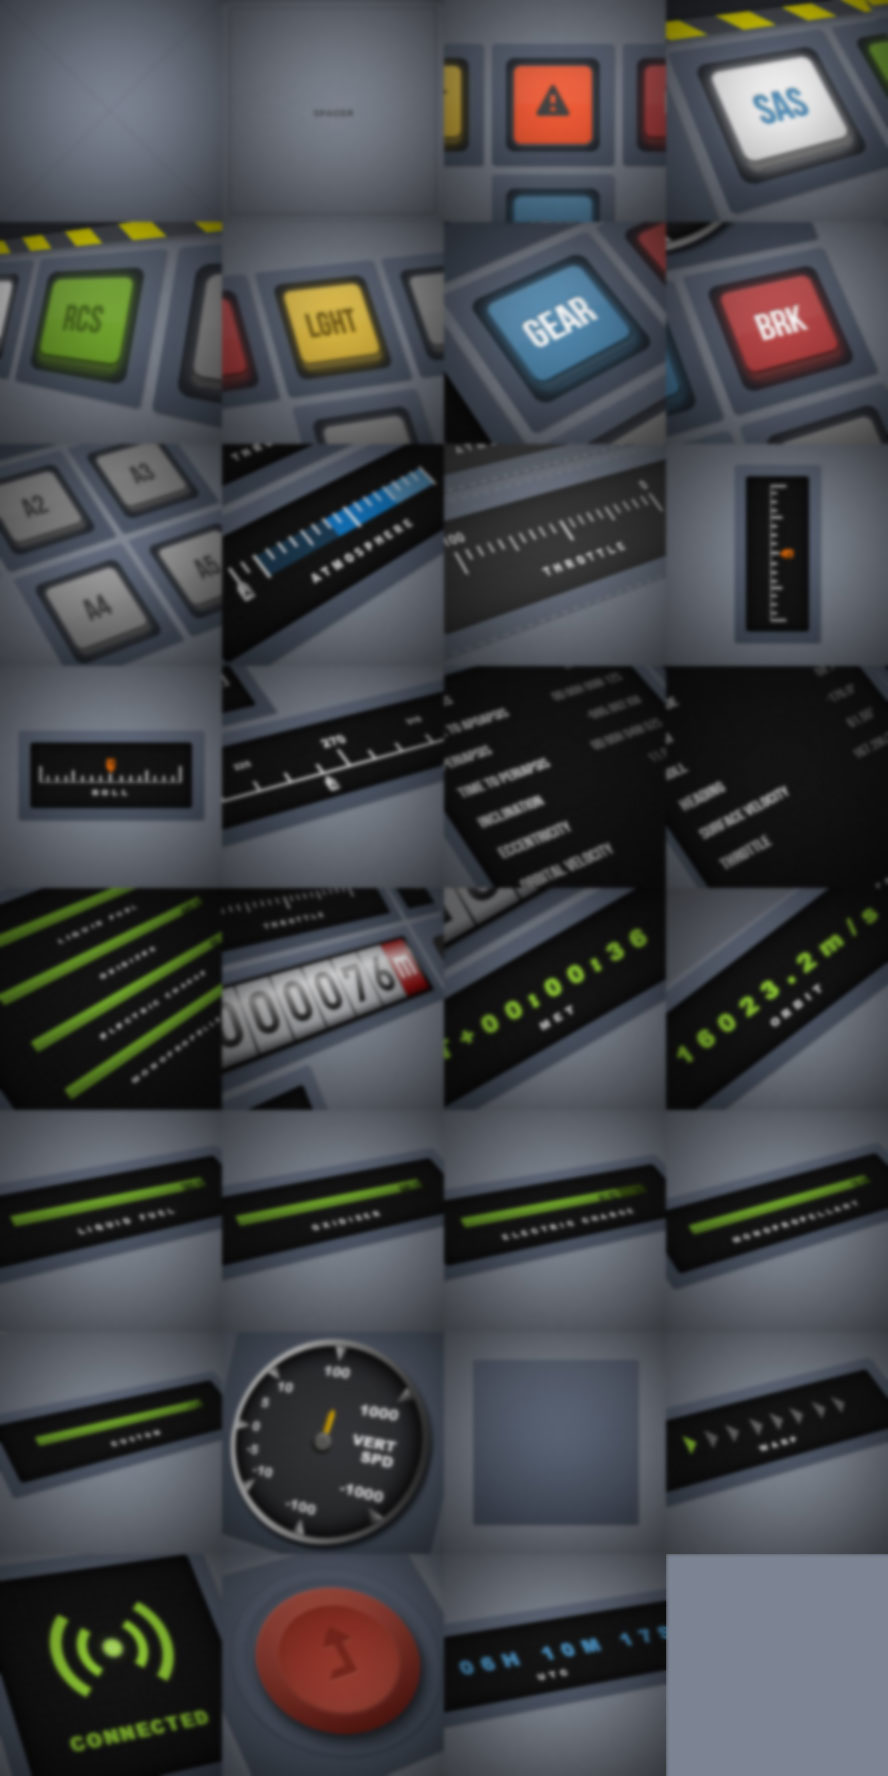
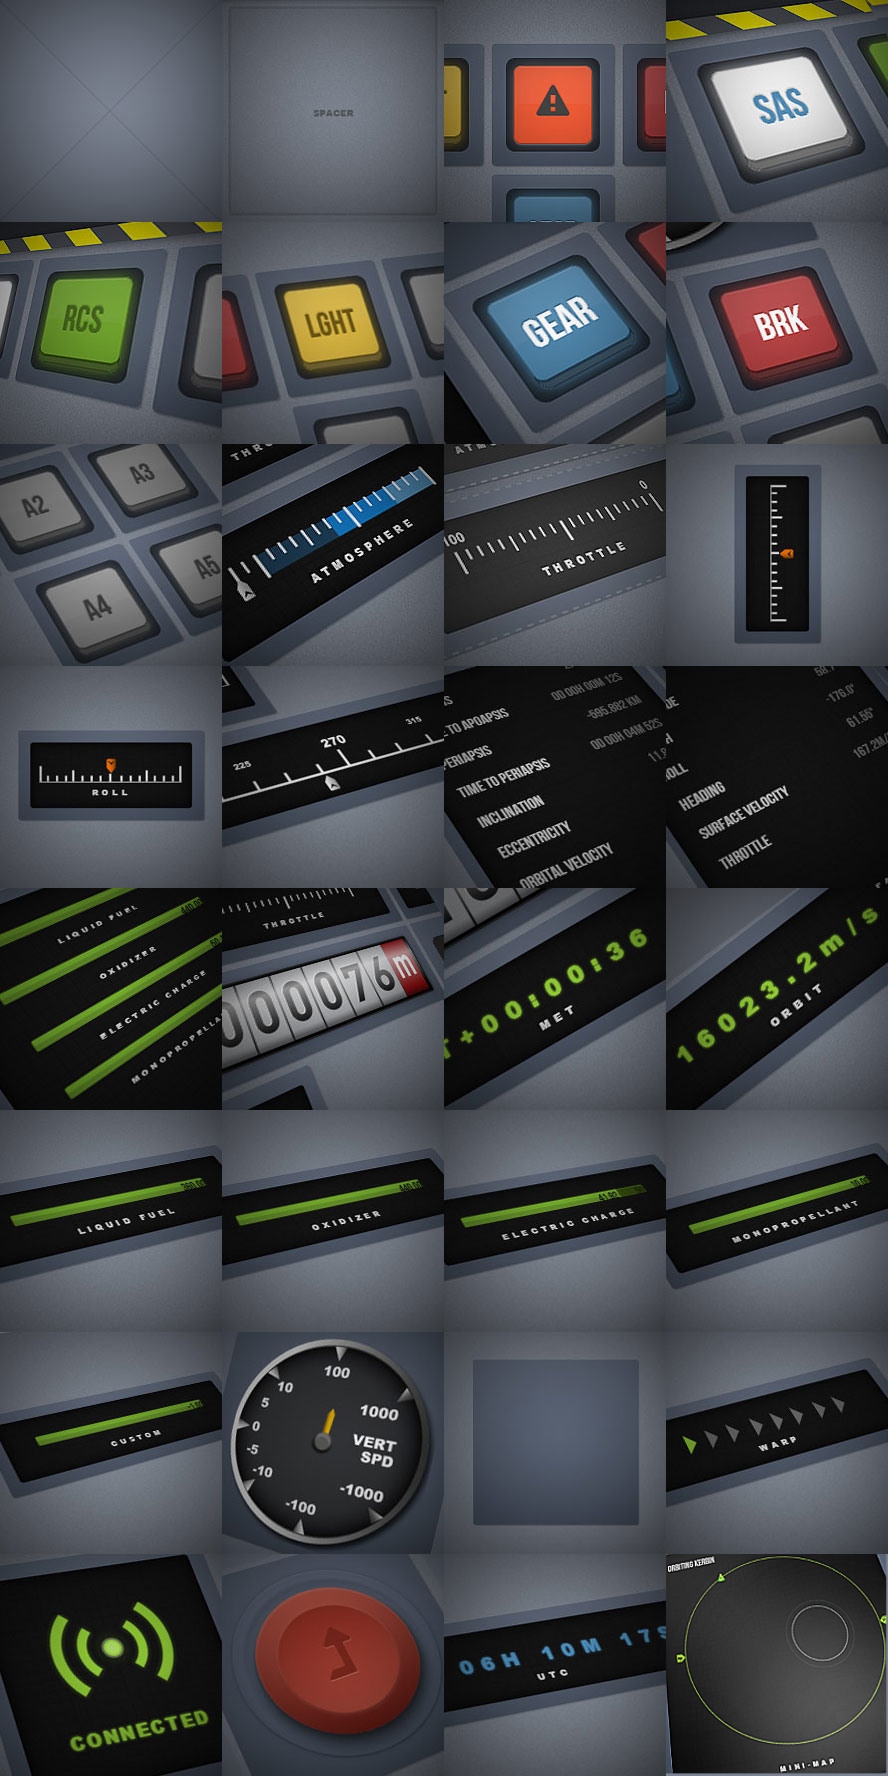
Adding a mini-map module
Just to see what the orbit look like.
Hyperboloid orbit are not yet implemented.

diff --git a/modules/src/mini-map.js b/modules/src/mini-map.js
@@ -1,0 +1,153 @@
+function init(config) {  
+
+	var url = config.u;
+	var col = config.c || MKON.LAYOUT.defaultCol;
+	var row = config.r || MKON.LAYOUT.defaultRow;
+	var meta = config.m || '';
+	var width = config.w;
+	var height = config.h;
+
+	var id = MKON.FNC.randomString(5)	
+	var req = ['o.ApA', 'o.PeA', 'o.trueAnomaly','o.eccentricity','v.body'];
+
+	// register a new module
+	var mod = new MKON.module('Mini-Map', 'Screen', id, req,
+
+	//handle data function
+	function() {   
+		function drawEllipse(ctx, x0, y0, a, exc, lineWidth, color) {
+			x0 += a * exc;
+			var r = a * (1 - exc*exc)/(1 + exc)
+			var x = x0 + r;
+			var y = y0;
+			ctx.beginPath();
+			ctx.moveTo(x, y);
+			var i = 0;
+			var twoPi = 2 * Math.PI;
+			while (i < twoPi) {
+				r = a * (1 - exc*exc)/(1 + exc * Math.cos(i));
+				x = x0 + r * Math.cos(i);
+				y = y0 + r * Math.sin(i);
+				ctx.lineTo(x, y);
+				i += 0.01 * Math.PI;
+			}
+			ctx.lineWidth = lineWidth;
+			ctx.strokeStyle = color;
+			ctx.closePath();
+			ctx.stroke();
+		}
+		
+		//draw the ship icons
+		function drawShip(ctx, x0, y0, a, exc, angle) {
+			x0 += a * exc;
+			var r = a * (1 - exc*exc)/(1 + exc * Math.cos(angle));
+			var x = -10 + x0 + r * Math.cos(angle); //center icon on the line
+			var y = -10 + y0 + r * Math.sin(angle); //center icon on the line
+			ctx.drawImage(minimapicons,0,0,20,20,x,y,20,20);
+		}
+		
+		//draw ap and pe icons
+		function drawApAndPe(ctx,a) {
+			//Pe
+			x = a; //center icon
+			y = -10; //center icon
+			ctx.drawImage(minimapicons,0,40,20,20,x,y,20,20);
+			//Ap
+			x = -20 - a; //center icon
+			y = -10; //center icon
+			ctx.drawImage(minimapicons,0,20,20,20,x,y,20,20);
+		}
+		
+		// I could use telemachus to get them but... 
+		// It is much more simple like this...
+		function getVBodyRadius(vbody) {
+			var bodies = [["Sun",261600000],["Kerbin",600000],["Mun",200000],["Minmus",60000],["Eve",700000],["Gilly",13000],["Moho",250000],["Duna",320000],["Dres",138000],["Jool",6000000],["Laythe",500000],["Vall",300000],["Tylo",600000],["Bop",65000],["Pol",44000],["Eeloo",138000],["Ike",130000]];
+			for (i = 0; i < bodies.length; i++) { 
+				if (vbody === bodies[i][0]) {
+					return bodies[i][1];
+				}
+			}
+			return 0;
+		}
+		function getVBodyAtmo(vbody) {
+			var bodies = [["Sun",0],["Kerbin",69077],["Mun",0],["Minmus",0],["Eve",96708],["Gilly",0],["Moho",0],["Duna",202650],["Dres",0],["Jool",138155],["Laythe",55262],["Vall",0],["Tylo",0],["Bop",0],["Pol",0],["Eeloo",0],["Ike",0]]; //data from the official wiki
+			for (i = 0; i < bodies.length; i++) { 
+				if (vbody === bodies[i][0]) {
+					return bodies[i][1];
+				}
+			}
+			return 0;
+		}
+		var t = $('#'+this.id);
+		var maxradius=180; //this is the max radius of the drawn orbit.
+	
+		var Plane = document.getElementById("canvas"+this.id);
+		var Context = Plane.getContext('2d');
+
+		var apo = MKON.CONTENT.getVariable(req[0]);
+		var per = MKON.CONTENT.getVariable(req[1]);
+		var trueano = MKON.CONTENT.getVariable(req[2]);
+		var ecc = MKON.CONTENT.getVariable(req[3]);
+		var body = MKON.CONTENT.getVariable(req[4]);
+		
+		var bodyradius = getVBodyRadius(body);
+		var bodyradiuswithatmo = bodyradius + (2*getVBodyAtmo(body));
+
+		var ratio = (2*maxradius / (per + apo + (2*bodyradius))); //do not round this 
+		var shipangle = -(trueano/190)* Math.PI; //in radians
+
+		Context.save();
+		//clear the context
+		Context.clearRect(0,0,400,400);
+		Context.translate(200,200);
+			
+		if (ecc < 1) { //The Orbit is closing... or at least not (hyper/para)boloid
+			//Draw the Orbit
+			drawEllipse(Context,0,0,maxradius,ecc,1,"YellowGreen"); 
+			//Draw the body
+			drawEllipse(Context,ecc*maxradius,0,bodyradius*ratio,0,0.5,"White");
+			drawEllipse(Context,ecc*maxradius,0,bodyradiuswithatmo*ratio,0,0.1,"LightBlue");
+			//Draw the Ship
+			drawShip(Context,0,0,maxradius,ecc,shipangle);
+			//Draw the cute Ap and Pe icons
+			drawApAndPe(Context,maxradius);
+			
+			Context.fillStyle = "lightgrey";
+			Context.font = "15pt BebasNeue";
+			Context.translate(-200,-180);
+			Context.fillText("ORBITING " + body,0,0);
+		} else {
+			Context.fillStyle = "lightgrey";
+			Context.font = "15pt BebasNeue";
+			Context.translate(-200,-180);
+			Context.fillText("paraboloid orbits not yet implemented...",0,0);
+		}
+		Context.restore();
+	}
+	);
+
+	// content for insertion to gridster
+	// I need the canvas to have fixed height and width...
+	// I load image there to avoid multiple loadings...
+	var content =  '<li id="' + id + '" data-row="1" data-col="1" data-link="' + url + '" data-sizex="4" data-sizey="4">\
+						<div class="options">\
+							<div class="remove"><i class="fa fa-times"></i>\
+							</div>\
+						</div>\
+						<div class="content">\
+							<div class="mini-map screen">\
+								<script>\
+									minimapicons = new Image();\
+									minimapicons.src = "./img/minimapicons.png";\
+								</script>\
+								<canvas class="mapcanvas" id="canvas'+ id + '" height="400" width="400"></canvas>\
+								<h3>MINI-MAP</h3>\
+								</div>\
+							</div>\
+						</div>\
+					</li>';
+
+	content = { html: content, x:4, y:4, col: col, row: row };
+
+	MKON.CONTENT.addModule(mod, content);
+}

diff --git a/modules/mini-map.min.js b/modules/mini-map.min.js
@@ -1,0 +1,1 @@
+function init(e){var t=e.u;var n=e.c||MKON.LAYOUT.defaultCol;var r=e.r||MKON.LAYOUT.defaultRow;var s=e.m||"";var o=e.w;var u=e.h;var a=MKON.FNC.randomString(5);var f=["o.ApA","o.PeA","o.trueAnomaly","o.eccentricity","v.body"];var l=new MKON.module("Mini-Map","Screen",a,f,function(){function e(e,t,n,r,i,s,o){t+=r*i;var u=r*(1-i*i)/(1+i);var a=t+u;var f=n;e.beginPath();e.moveTo(a,f);var l=0;var c=2*Math.PI;while(l<c){u=r*(1-i*i)/(1+i*Math.cos(l));a=t+u*Math.cos(l);f=n+u*Math.sin(l);e.lineTo(a,f);l+=.01*Math.PI}e.lineWidth=s;e.strokeStyle=o;e.closePath();e.stroke()}function t(e,t,n,r,i,s){t+=r*i;var o=r*(1-i*i)/(1+i*Math.cos(s));var u=-10+t+o*Math.cos(s);var a=-10+n+o*Math.sin(s);e.drawImage(minimapicons,0,0,20,20,u,a,20,20)}function n(e,t){x=t;y=-10;e.drawImage(minimapicons,0,40,20,20,x,y,20,20);x=-20-t;y=-10;e.drawImage(minimapicons,0,20,20,20,x,y,20,20)}function r(e){var t=[["Sun",2616e5],["Kerbin",6e5],["Mun",2e5],["Minmus",6e4],["Eve",7e5],["Gilly",13e3],["Moho",25e4],["Duna",32e4],["Dres",138e3],["Jool",6e6],["Laythe",5e5],["Vall",3e5],["Tylo",6e5],["Bop",65e3],["Pol",44e3],["Eeloo",138e3],["Ike",13e4]];for(i=0;i<t.length;i++){if(e===t[i][0]){return t[i][1]}}return 0}function s(e){var t=[["Sun",0],["Kerbin",69077],["Mun",0],["Minmus",0],["Eve",96708],["Gilly",0],["Moho",0],["Duna",202650],["Dres",0],["Jool",138155],["Laythe",55262],["Vall",0],["Tylo",0],["Bop",0],["Pol",0],["Eeloo",0],["Ike",0]];for(i=0;i<t.length;i++){if(e===t[i][0]){return t[i][1]}}return 0}var o=$("#"+this.id);var u=180;var a=document.getElementById("canvas"+this.id);var l=a.getContext("2d");var c=MKON.CONTENT.getVariable(f[0]);var h=MKON.CONTENT.getVariable(f[1]);var p=MKON.CONTENT.getVariable(f[2]);var d=MKON.CONTENT.getVariable(f[3]);var v=MKON.CONTENT.getVariable(f[4]);var m=r(v);var g=m+2*s(v);var b=2*u/(h+c+2*m);var w=-(p/190)*Math.PI;l.save();l.clearRect(0,0,400,400);l.translate(200,200);if(d<1){e(l,0,0,u,d,1,"YellowGreen");e(l,d*u,0,m*b,0,.5,"White");e(l,d*u,0,g*b,0,.1,"LightBlue");t(l,0,0,u,d,w);n(l,u);l.fillStyle="lightgrey";l.font="15pt BebasNeue";l.translate(-200,-180);l.fillText("ORBITING "+v,0,0)}else{l.fillStyle="lightgrey";l.font="15pt BebasNeue";l.translate(-200,-180);l.fillText("paraboloid orbits not yet implemented...",0,0)}l.restore()});var c='<li id="'+a+'" data-row="1" data-col="1" data-link="'+t+'" data-sizex="4" data-sizey="4">						<div class="options">							<div class="remove"><i class="fa fa-times"></i>							</div>						</div>						<div class="content">							<div class="mini-map screen">								<script>									minimapicons = new Image();									minimapicons.src = "./img/minimapicons.png";								</script>								<canvas class="mapcanvas" id="canvas'+a+'" height="400" width="400"></canvas>								<h3>MINI-MAP</h3>								</div>							</div>						</div>					</li>';c={html:c,x:4,y:4,col:n,row:r};MKON.CONTENT.addModule(l,c)}

diff --git a/index.html b/index.html
@@ -608,7 +608,21 @@
                               </i>
                             </a>
                           </li>
-
+						
+						<li class="item data-type-dial" data-name="Mini-Map" data-type="screen" data-link="modules/src/mini-map.js" style="background-position:-666px -1554px;">
+                            <h4 class="title">
+                              Mini-Map
+                              <span class="type fa fa-dot-circle-o">
+                              </span>
+                            </h4>
+                            <h5 class="desc">
+                              A small map.
+                            </h5>
+                            <a class="addButton button lightText large square green no-toggle" data-defaultclass="green">
+                              <i class="fa fa-plus">
+                              </i>
+                            </a>
+                          </li>
                         </ul>
 
                    </div>
